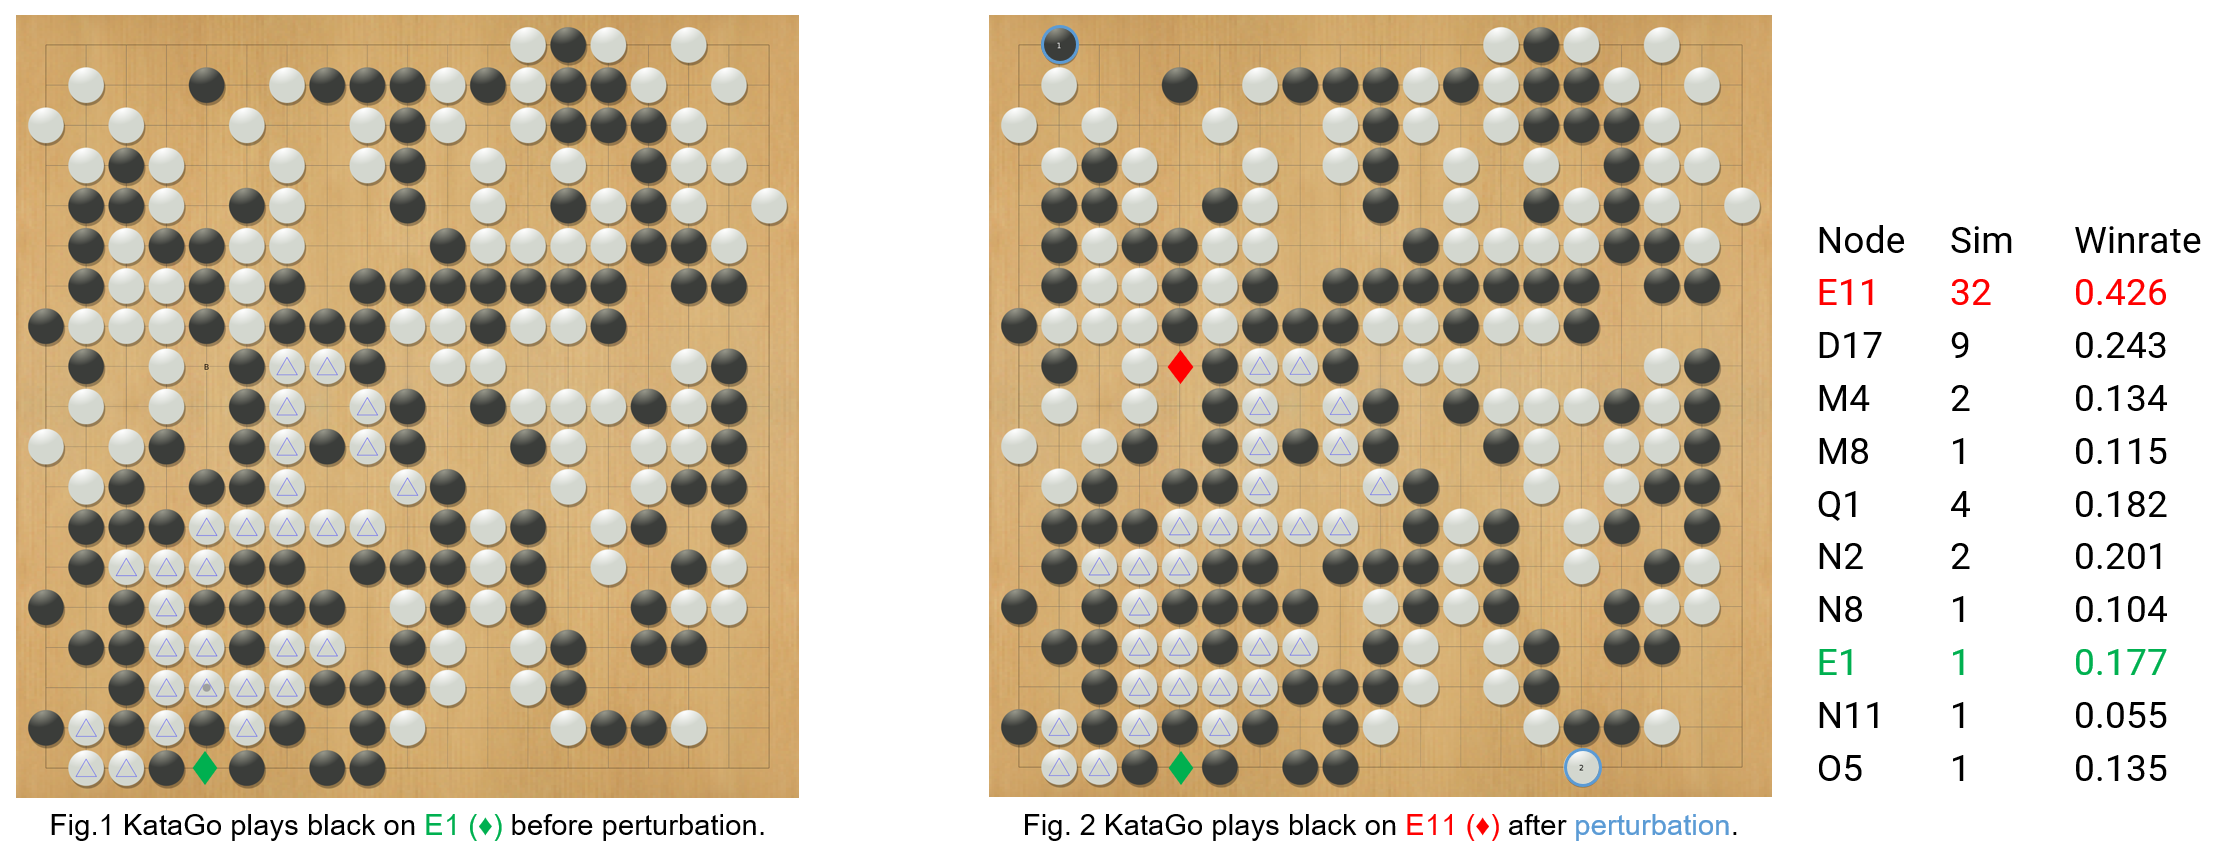
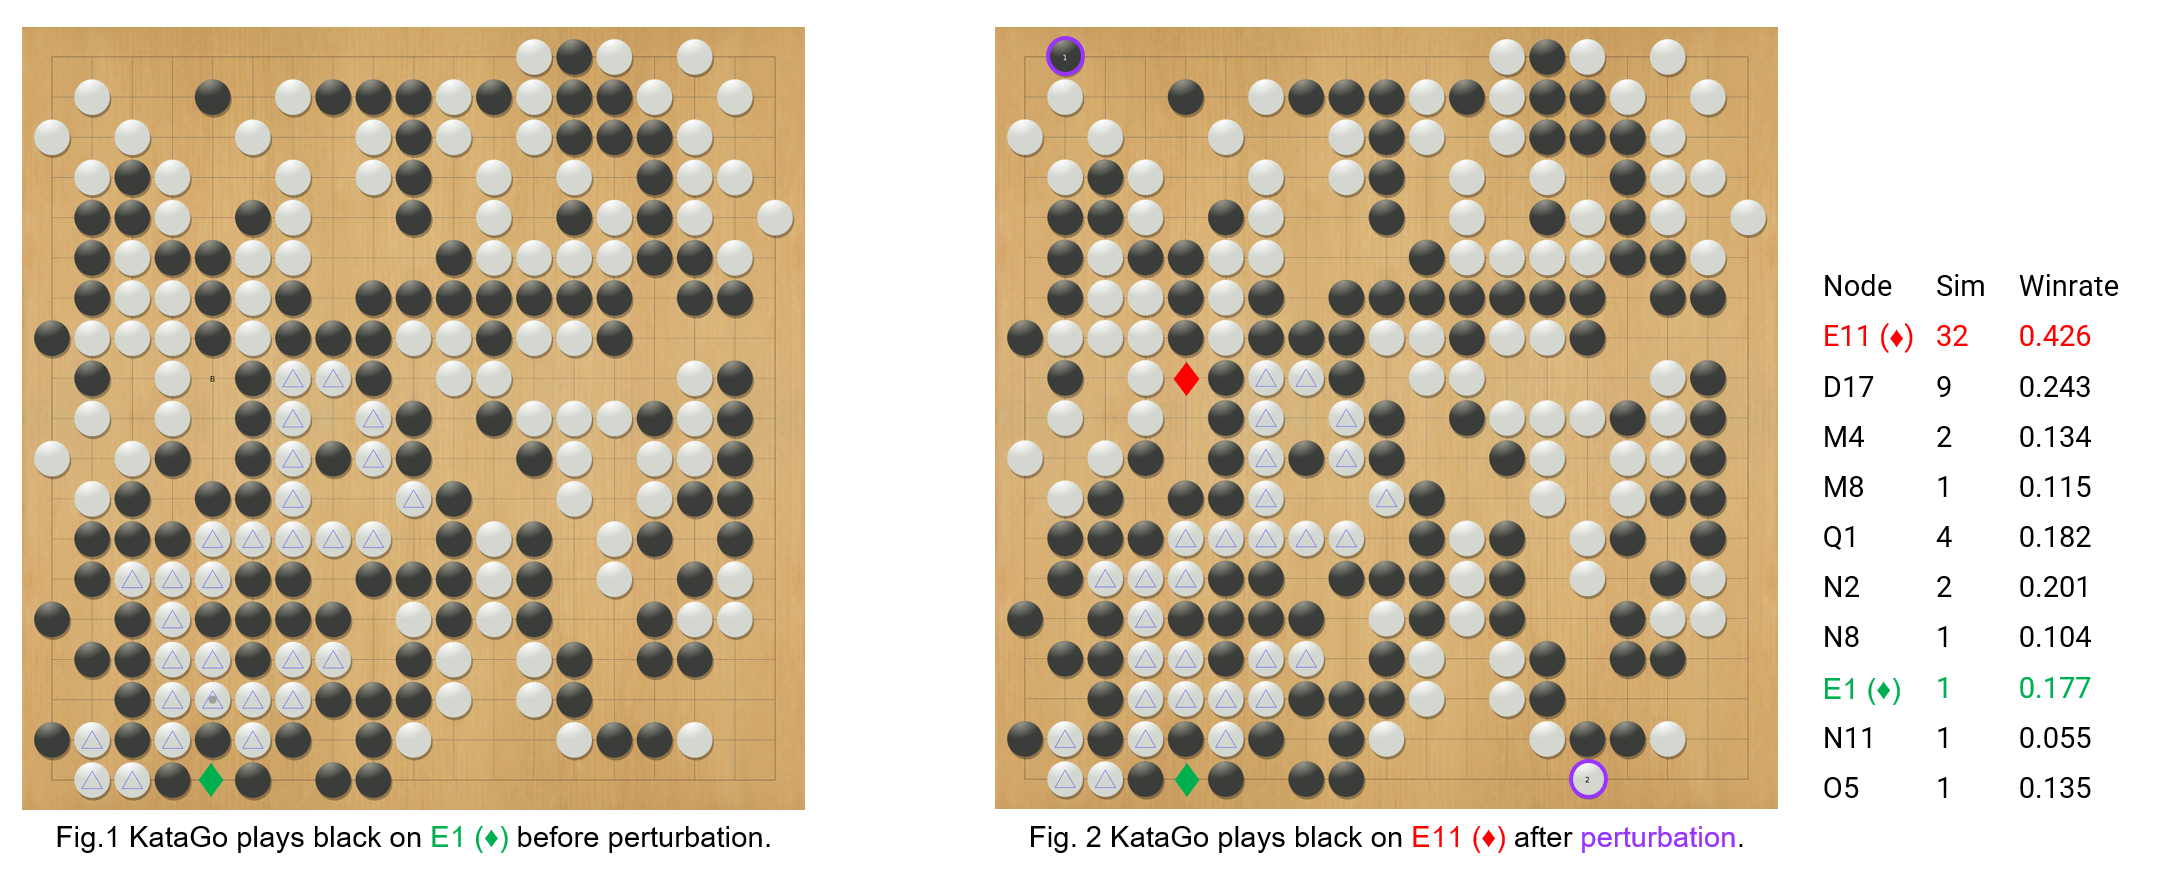
new readme5

diff --git a/README.md b/README.md
@@ -13,7 +13,7 @@ Our method is inspired by [adversarial attack](https://arxiv.org/pdf/1412.6572.p
 
 ![Screenshot](panda.png)
 
-In this example, researchers make the target model make a wrong prediction by adding some noise. Similar to the panda example, Fig. 2 is created by a adding $\color{#73C2FB} \text{two stones (marked as 1 and 2)}$ to a nature state (Fig. 1) of AlphaGo Zero self-play record. Even amateur players know that the $\color{lightblue} \text{two stones}$ are meaningless since they will not affect the winrate nor the best action of the state in Fig 1. 
+In this example, researchers make the target model make a wrong prediction by adding some noise. Similar to the panda example, Fig. 2 is created by a adding $\color{9933FF} \text{two stones (marked as 1 and 2)}$ to a nature state (Fig. 1) of AlphaGo Zero self-play record. Even amateur players know that the $\color{9933FF} \text{two stones}$ are meaningless since they will not affect the winrate nor the best action of the state in Fig 1. 
 However, confused by those two stones, KataGo will switch its answer from $\color{green} \text{E1 ◆}$ to $\color{red} \text{E11 ◆}$. More examples are shown in [examples](#adversarial-examples). After carefully design the search space and improve the searching efficiency, our method can find the adversarial examples of KataGo with 50 MCTS simluations of 68% of the self-play record. Moreover, more than 80% of the mistakes can be easily understanded by amateur players. 
 
 
